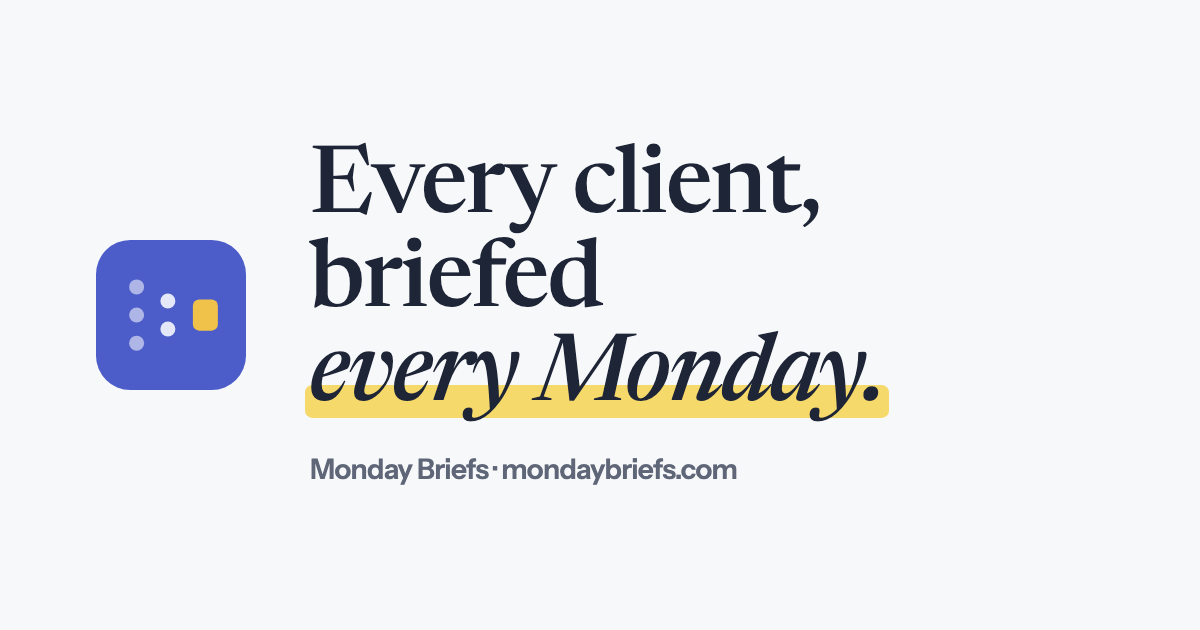
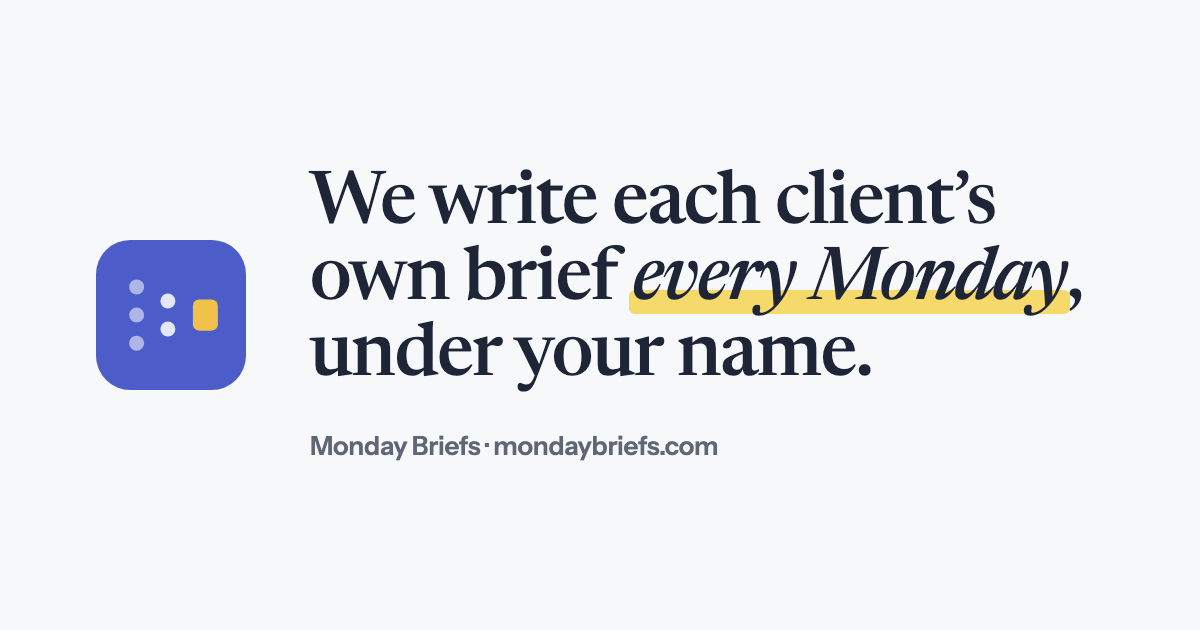
Share image: match the new headline
Re-renders og.png (1200x630, same layout) with 'We write each client's own
brief every Monday, under your name.' and versions the image URL so X,
iMessage and Slack fetch the new card instead of a cached one.

Changed region(s): [[0.2467, 0.2111, 0.925, 0.6635], [0.2467, 0.6937, 0.6167, 0.7841]]

diff --git a/index.html b/index.html
@@ -14,7 +14,10 @@
 <meta property="og:description" content="We write each client's own brief every Monday, under your name.">
 <meta property="og:url" content="https://mondaybriefs.com/">
 <meta property="og:site_name" content="Monday Briefs">
-<meta property="og:image" content="https://mondaybriefs.com/og.png">
+<meta property="og:image" content="https://mondaybriefs.com/og.png?v=2">
+<meta property="og:image:width" content="1200">
+<meta property="og:image:height" content="630">
+<meta name="twitter:image" content="https://mondaybriefs.com/og.png?v=2">
 <link rel="canonical" href="https://mondaybriefs.com/">
 <meta name="twitter:card" content="summary_large_image">
 <link rel="preconnect" href="https://fonts.googleapis.com">
